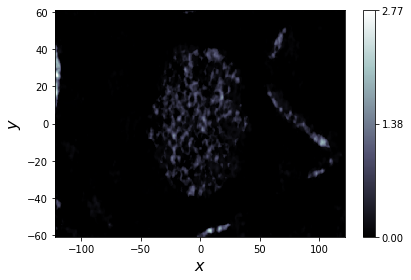
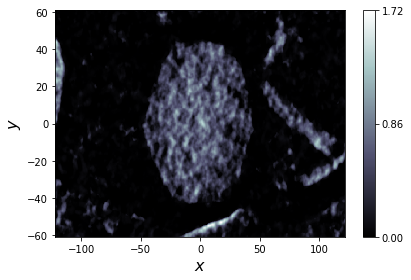
WIP: some minor fixes

diff --git a/odl/contrib/etomo/examples/experimental/kazcmarz/region1.py b/odl/contrib/etomo/examples/experimental/kazcmarz/region1.py
@@ -8,7 +8,7 @@ import matplotlib.pyplot as plt
 from odl.contrib.mrc import FileReaderMRC
 
 # Read data
-dir_path = os.path.abspath('/home/zickert/TEM_reco_project')
+dir_path = os.path.abspath('/home/zickert/TEM_reco_project/Data/Experimental')
 file_path_data = os.path.join(dir_path, 'region1.mrc')
 
 with FileReaderMRC(file_path_data) as reader:
@@ -26,12 +26,19 @@ wave_length = 0.0025e-9  # m
 wave_number = 2 * np.pi / wave_length
 sigma = e_mass * e_charge / (wave_number * planck_bar ** 2)
 
-abs_phase_ratio = 0.5
-obj_magnitude = 0.5 * sigma / rescale_factor
+abs_phase_ratio = 0.1
+obj_magnitude = sigma / rescale_factor
 regpar = 3e3
 num_angles = 81
 num_angles_per_block = 1
 num_cycles = 3
+
+#dose = 1 # not known
+#det_after_M = (det_size / M)  **2
+#
+#electrons_per_pixel = (dose / det_after_M ) / 61
+
+
 
 detector_zero_level = np.min(data)
 
@@ -92,11 +99,11 @@ forward_op = imageFormation_op * ray_trafo * mask
 data = forward_op.range.element(np.transpose(data - detector_zero_level,
                                              (2, 0, 1)))
 
-data.show(coords=[0, [-2e1, 2e1], [-2e1, 2e1]])
+data.show(coords=[0, None, None])
 
 data_bc = etomo.buffer_correction(data)
 
-data_bc.show(coords=[0, [-2e1, 2e1], [-2e1, 2e1]])
+data_bc.show(coords=[0, None, None])
 
 data_renormalized = data_bc * np.mean(imageFormation_op(imageFormation_op.domain.zero()).asarray())
 

diff --git a/odl/contrib/etomo/examples/experimental/kazcmarz/region2.py b/odl/contrib/etomo/examples/experimental/kazcmarz/region2.py
@@ -8,7 +8,7 @@ import matplotlib.pyplot as plt
 from odl.contrib.mrc import FileReaderMRC
 
 # Read data
-dir_path = os.path.abspath('/home/zickert/TEM_reco_project')
+dir_path = os.path.abspath('/home/zickert/TEM_reco_project/Data/Experimental')
 file_path_data = os.path.join(dir_path, 'region2.mrc')
 
 with FileReaderMRC(file_path_data) as reader:
@@ -26,8 +26,8 @@ wave_length = 0.0025e-9  # m
 wave_number = 2 * np.pi / wave_length
 sigma = e_mass * e_charge / (wave_number * planck_bar ** 2)
 
-abs_phase_ratio = 0.5
-obj_magnitude = 0.5 * sigma / rescale_factor
+abs_phase_ratio = 0.1
+obj_magnitude = sigma / rescale_factor
 regpar = 3e3
 num_angles = 81
 num_angles_per_block = 1
@@ -92,11 +92,11 @@ forward_op = imageFormation_op * ray_trafo * mask
 data = forward_op.range.element(np.transpose(data - detector_zero_level,
                                              (2, 0, 1)))
 
-data.show(coords=[0, [-2e1, 2e1], [-2e1, 2e1]])
+data.show(coords=[0, None, None])
 
 data_bc = etomo.buffer_correction(data)
 
-data_bc.show(coords=[0, [-2e1, 2e1], [-2e1, 2e1]])
+data_bc.show(coords=[0, None, None])
 
 data_renormalized = data_bc * np.mean(imageFormation_op(imageFormation_op.domain.zero()).asarray())
 

diff --git a/odl/contrib/etomo/examples/experimental/kazcmarz/region3.py b/odl/contrib/etomo/examples/experimental/kazcmarz/region3.py
@@ -8,7 +8,7 @@ import matplotlib.pyplot as plt
 from odl.contrib.mrc import FileReaderMRC
 
 # Read data
-dir_path = os.path.abspath('/home/zickert/TEM_reco_project')
+dir_path = os.path.abspath('/home/zickert/TEM_reco_project/Data/Experimental')
 file_path_data = os.path.join(dir_path, 'region3.mrc')
 
 with FileReaderMRC(file_path_data) as reader:
@@ -26,8 +26,8 @@ wave_length = 0.0025e-9  # m
 wave_number = 2 * np.pi / wave_length
 sigma = e_mass * e_charge / (wave_number * planck_bar ** 2)
 
-abs_phase_ratio = 0.5
-obj_magnitude = 0.5 * sigma / rescale_factor
+abs_phase_ratio = 1
+obj_magnitude = sigma / rescale_factor
 regpar = 3e3
 num_angles = 81
 num_angles_per_block = 1
@@ -92,11 +92,11 @@ forward_op = imageFormation_op * ray_trafo * mask
 data = forward_op.range.element(np.transpose(data - detector_zero_level,
                                              (2, 0, 1)))
 
-data.show(coords=[0, [-2e1, 2e1], [-2e1, 2e1]])
+data.show(coords=[0, None, None])
 
 data_bc = etomo.buffer_correction(data)
 
-data_bc.show(coords=[0, [-2e1, 2e1], [-2e1, 2e1]])
+data_bc.show(coords=[0, None, None])
 
 data_renormalized = data_bc * np.mean(imageFormation_op(imageFormation_op.domain.zero()).asarray())
 

diff --git a/odl/contrib/etomo/examples/simulated/balls/pdhg_tv/balls_dose_5000.py b/odl/contrib/etomo/examples/simulated/balls/pdhg_tv/balls_dose_5000.py
@@ -8,7 +8,7 @@ from odl.contrib import etomo
 from odl.contrib.mrc import FileReaderMRC
 
 # Read phantom and data.
-dir_path = os.path.abspath('/home/zickert/TEM_reco_project/Data/Balls/odlworkshop/gain_5000')
+dir_path = os.path.abspath('/home/zickert/TEM_reco_project/Data/Simulated/Balls/gain_5000')
 file_path_phantom = os.path.join(dir_path, 'balls_phantom.mrc')
 file_path_tiltseries = os.path.join(dir_path, 'tiltseries.mrc')
 
@@ -107,15 +107,6 @@ data_from_this_model = forward_op(phantom)
 
 # Make  a ODL discretized function of the MRC data
 data = forward_op.range.element(np.transpose(data_asarray, (2, 0, 1)))
-
-# Plot phantom and data
-# phantom.show(coords=[0, None, None])
-# phantom_abs.show(coords=[0, None, None])
-# data.show(coords=[0, [-2e1, 2e1], [-2e1, 2e1]])
-
-# plt.imshow(true_data, cmap='gray')
-# plt.colorbar()
-# true_data.show(coords=[0, [-2e1, 2e1], [-2e1, 2e1]])
 
 # Correct for diffrent pathlenght of the electrons through the buffer
 data = etomo.buffer_correction(data)

diff --git a/odl/contrib/etomo/buffer_correct.py b/odl/contrib/etomo/buffer_correct.py
@@ -33,8 +33,13 @@ def buffer_correction(data, coords=[[0, 0.25], [0, 0.25]]):
     bg = data_asarray[:, round(dim_x*coords[0][0]):round(dim_x*coords[0][1]),
                       round(dim_y*coords[1][0]):round(dim_y*coords[1][1])]
 
-    # Compute mean of background over all tomographic acquisition angles
+    bg_slice = bg[round(dim_t/2),:,:]
+    import matplotlib.pyplot as plt
+    plt.imshow(bg_slice)
+
+    # Compute mean of background for all tomographic acquisition angles
     bg_mean = np.mean(bg, (1, 2))
+    print(bg_mean.shape)
 
     # Return original data divided by the computed mean background
     return data.space.element(data_asarray * (1.0/bg_mean.reshape(dim_t,

diff --git a/odl/contrib/etomo/examples/simulated/balls/kaczmarz/balls_No_noise.py b/odl/contrib/etomo/examples/simulated/balls/kaczmarz/balls_No_noise.py
@@ -10,7 +10,7 @@ from odl.contrib import etomo
 from odl.contrib.mrc import FileReaderMRC
 
 # Read phantom and data.
-dir_path = os.path.abspath('/home/zickert/TEM_reco_project/Data/Balls/odlworkshop/No_noise')
+dir_path = os.path.abspath('/home/zickert/TEM_reco_project/Data/Simulated/Balls/No_noise')
 file_path_phantom = os.path.join(dir_path, 'balls_phantom.mrc')
 file_path_tiltseries = os.path.join(dir_path, 'tiltseries.mrc')
 
